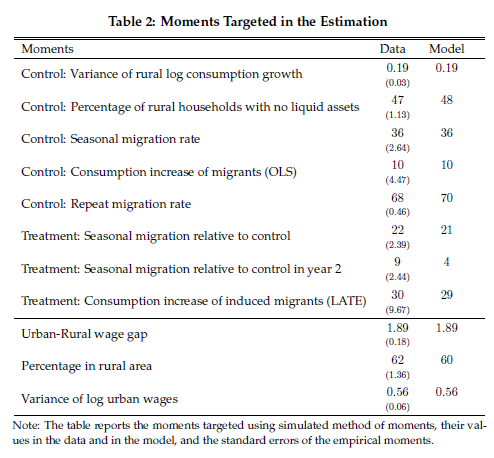
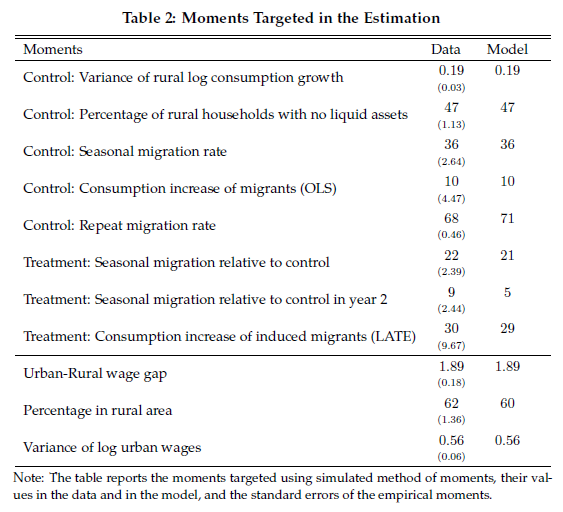
calibration table fixed

diff --git a/slides/LMW_mw.tex b/slides/LMW_mw.tex
@@ -443,7 +443,7 @@ Control: Variance of rural log consumption growth & $\begin{array}{c}0.19\vspace
 
 Control: Percentage of rural households with no liquid assets &
 $\begin{array}{c}47\vspace{-.15cm}\\ \scriptstyle (1.13)\end{array}$ &
-$\begin{array}{c}48\vspace{-.15cm}\\ \scriptstyle \phantom{(1.13)}\end{array}$\\
+$\begin{array}{c}47\vspace{-.15cm}\\ \scriptstyle \phantom{(1.13)}\end{array}$\\
 
 Control: Seasonal migration rate &
 $\begin{array}{c}36\vspace{-.15cm}\\ \scriptstyle (2.64)\end{array}$ &
@@ -455,7 +455,7 @@ $\begin{array}{c}10\vspace{-.15cm}\\ \scriptstyle \phantom{(4.47)}\end{array}$ &
 
  Control: Repeat migration rate&
 $\begin{array}{c}68\vspace{-.15cm}\\ \scriptstyle (0.46)\end{array}$ &
-$\begin{array}{c}70\vspace{-.15cm}\\ \scriptstyle \phantom{(0.46)}\end{array}$ & \\
+$\begin{array}{c}71\vspace{-.15cm}\\ \scriptstyle \phantom{(0.46)}\end{array}$ & \\
 
 Treatment: Seasonal migration relative to control &
  $\begin{array}{c}22\vspace{-.15cm}\\ \scriptstyle (2.39)\end{array}$ &
@@ -464,7 +464,7 @@ $\begin{array}{c}21\vspace{-.15cm}\\ \scriptstyle \phantom{(2.39)}\end{array}$ &
 
 Treatment: Seasonal migration relative to control in year 2 &
  $\begin{array}{c}9\vspace{-.15cm}\\ \scriptstyle (2.44)\end{array}$ &
-$\begin{array}{c}4\vspace{-.15cm}\\ \scriptstyle \phantom{(2.44)}\end{array}$ & \\
+$\begin{array}{c}5\vspace{-.15cm}\\ \scriptstyle \phantom{(2.44)}\end{array}$ & \\
 
 
 Treatment: Consumption increase of induced migrants (LATE)  &
